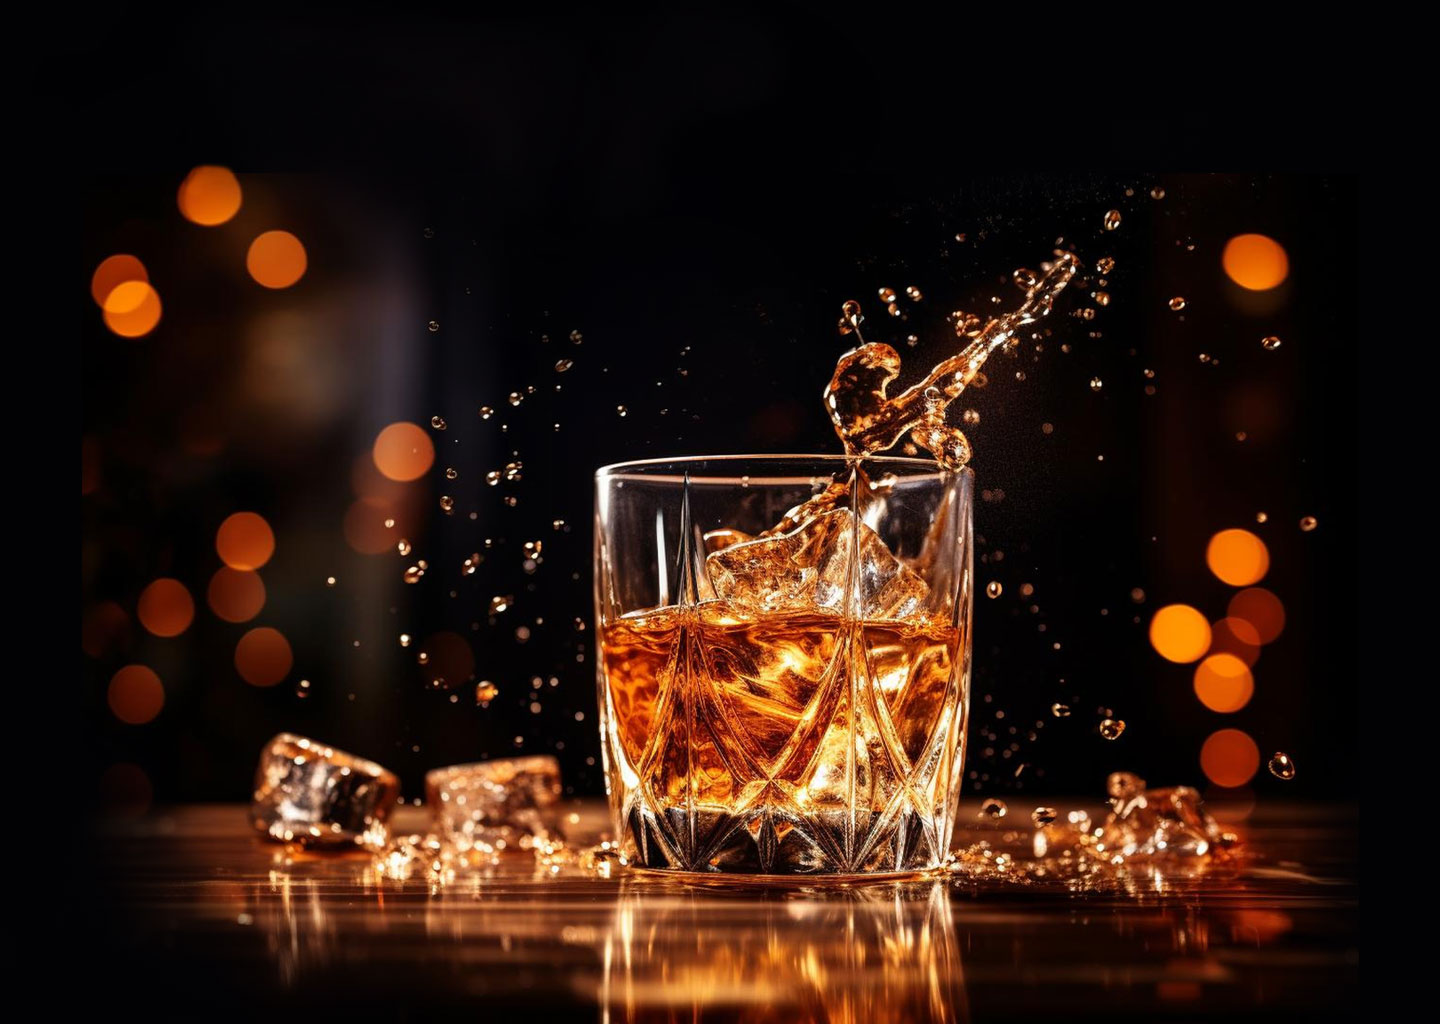
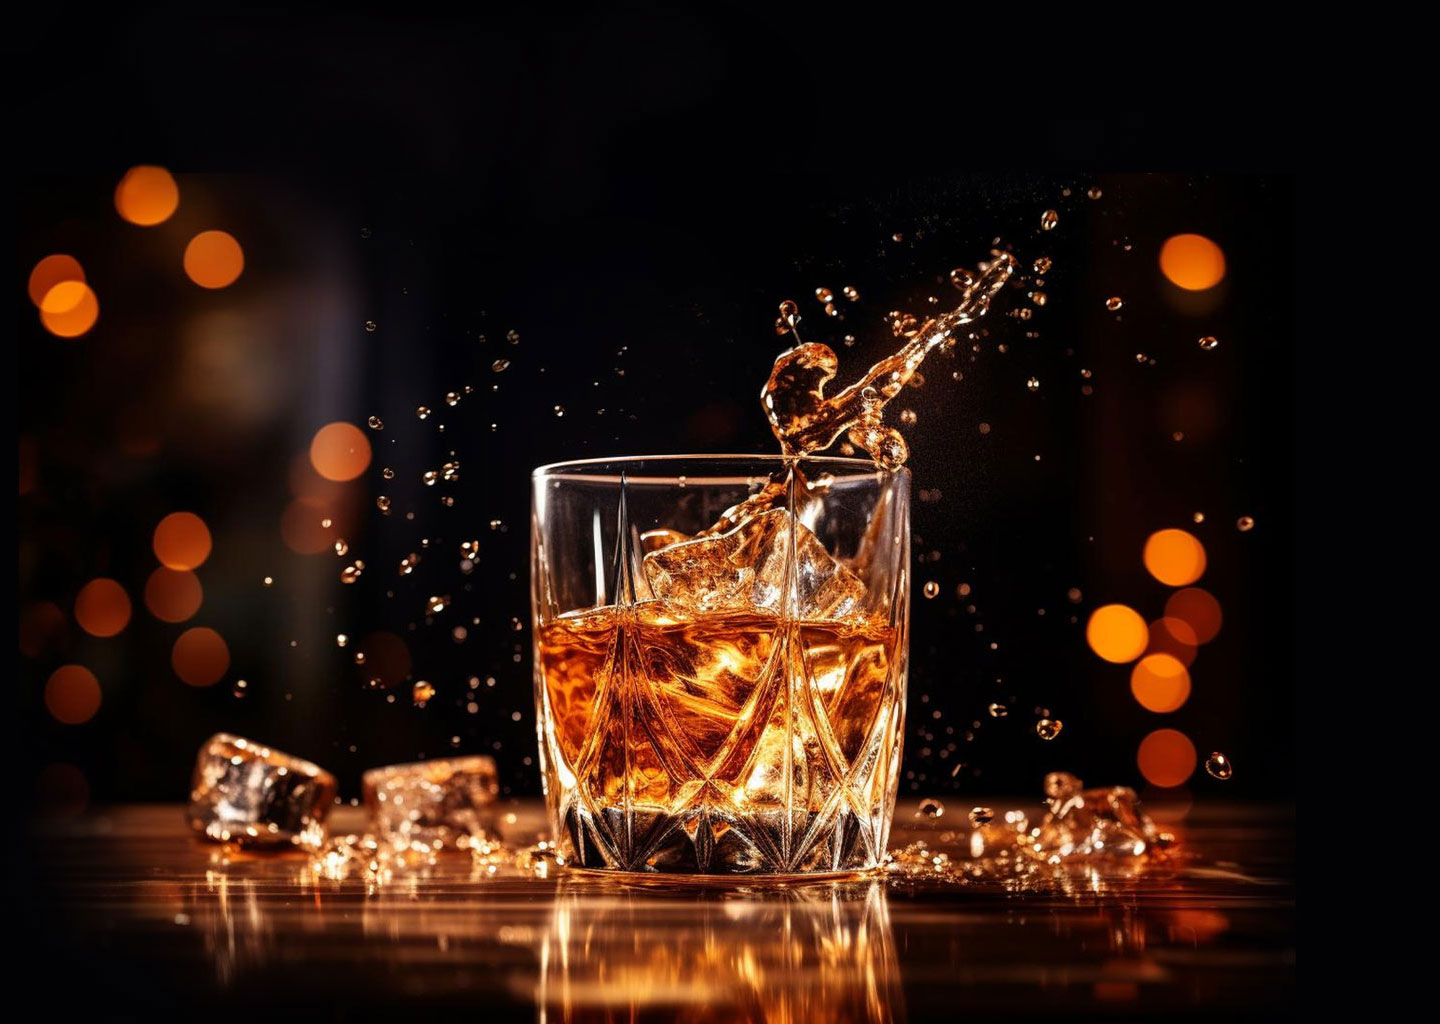
LoginPage > 修改圖片問題

diff --git a/src/views/LoginPage.vue b/src/views/LoginPage.vue
@@ -6,13 +6,13 @@
           <a @click="handleClick('/home')" data-link="/home">
             <img class="log_home" src="../imgs/loginImg/login_but-02.svg" width="125" height="125" />
           </a>
-          <p style="color: #fff">點擊冰塊進入頁面</p>
+          <p style="color: #fff">點擊冰快進入頁面</p>
           <a @click="handleClick('/admin_login')" data-link="/admin_login">
             <img class="log_admin" src="../imgs/loginImg/login_but-03.svg" width="125" height="125" />
           </a>
         </div>
-        <div class="login" :style="backgroundStyle">
-          <!-- Empty div used for background image -->
+        <div class="login">
+          <img :src="onImage" width="590" />
         </div>
       </div>
     </div>
@@ -25,31 +25,17 @@ export default {
   data() {
     return {
       onImage: new URL(`@/imgs/loginImg/login-on.jpg`, import.meta.url).href,
-      offImage: new URL(`@/imgs/loginImg/login-off.jpg`, import.meta.url).href,
-      currentImage: '' // Current background image URL
+      offImage: new URL(`@/imgs/loginImg/login-off.jpg`, import.meta.url).href
     }
   },
-  computed: {
-    backgroundStyle() {
-      return {
-        backgroundImage: `url(${this.currentImage})`,
-        backgroundSize: 'cover', // Cover the entire div
-        backgroundPosition: 'center', // Center the background image
-        width: '100%', // Full width
-        height: '100vh' // Full viewport height
-      }
-    }
-  },
+  //跳轉換圖設定
   methods: {
     handleClick(link) {
-      this.currentImage = this.offImage // Switch to offImage as background
+      this.onImage = this.offImage
       setTimeout(() => {
-        this.$router.push(link) // Navigate after a short delay
+        this.$router.push(link)
       }, 300)
     }
-  },
-  mounted() {
-    this.currentImage = this.onImage // Set initial background image
   }
 }
 </script>
@@ -58,20 +44,40 @@ export default {
 section {
   background: #000;
   height: 100vh;
+
   .wrapper {
     display: flex;
     justify-content: space-evenly;
-    padding-top: 100px;
+    padding-top: 40px;
     z-index: 1;
+    @media (max-width: 767px) {
+      margin: 0 auto;
+      flex-direction: column;
+      align-items: center;
+      // width: 80vw;
+    }
   }
+
   .login {
     text-align: center;
-    overflow: hidden;
+    img {
+      position: relative;
+      @media (max-width: 767px) {
+        margin: 0 auto;
+        display: block;
+        width: 100vw;
+      }
+    }
   }
+
   .log_home,
   .log_admin {
     cursor: pointer;
     transition: transform 0.3s ease;
+    @media (max-width: 767px) {
+      width: 90%;
+      margin-bottom: 20px;
+    }
   }
 
   .log_home:hover,
